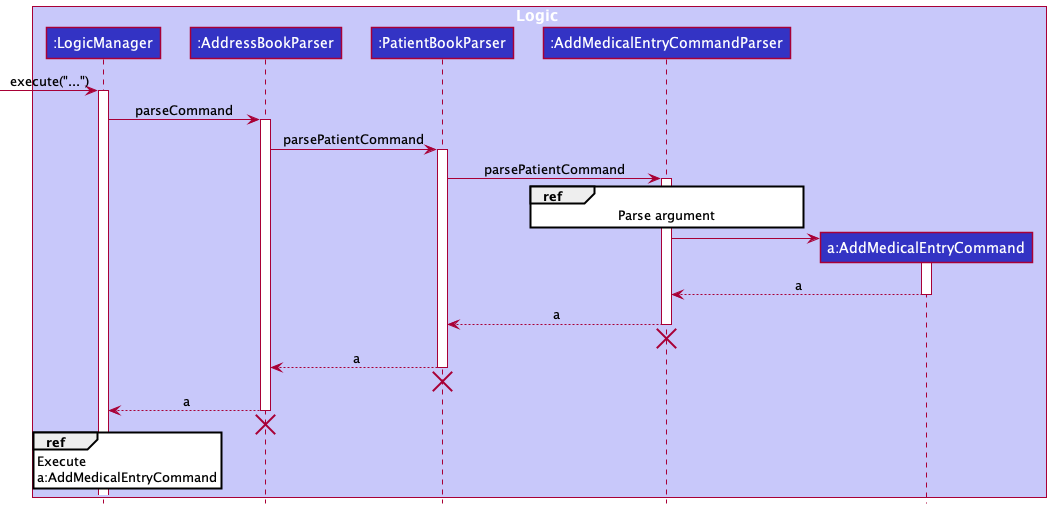
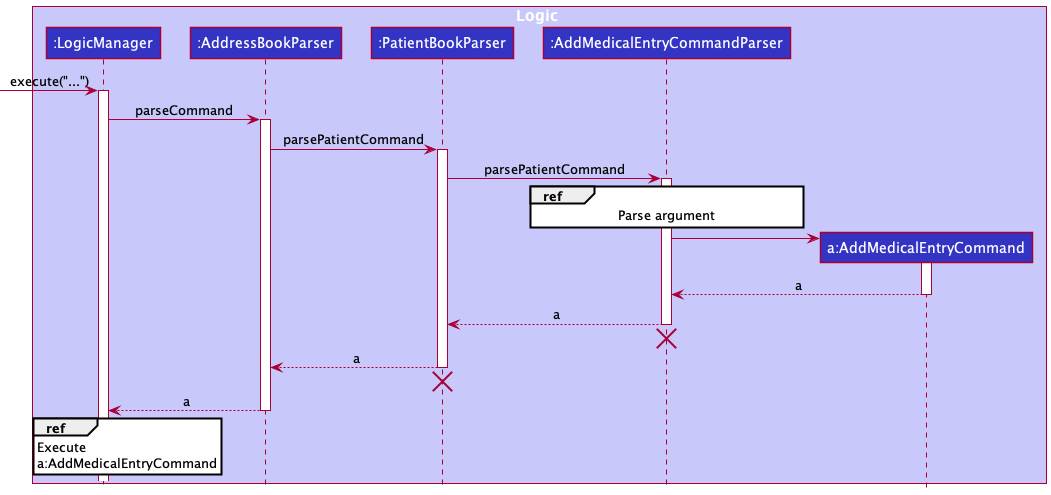
Update sequence diagrams due to errors

diff --git a/docs/DeveloperGuide.md b/docs/DeveloperGuide.md
@@ -170,12 +170,13 @@ The Sequence Diagram below illustrates the interactions within the `Logic` compo
 
 ![Interactions Inside the Logic Component for the `pt delete 1` Command](diagrams/DeletePatientFeatureSequenceDiagram1.png)
 
+<div markdown="span" class="alert alert-info">:information_source: **Note:** The lifeline for `PatientBookParser` and `DeletePatientCommandParser` should end at the destroy marker (X) but due to a limitation of PlantUML, the lifeline reaches the end of diagram.
+</div>
+
 **Execute command**
 
 ![Interactions Inside the Logic Component for the `pt delete 1` Command](diagrams/DeletePatientFeatureSequenceDiagram.png)
 
-<div markdown="span" class="alert alert-info">:information_source: **Note:** The lifeline for `DeletePatientCommandParser` should end at the destroy marker (X) but due to a limitation of PlantUML, the lifeline reaches the end of diagram.
-</div>
 
 Here are the other classes in `Logic` (omitted from the class diagram above) that are used for parsing a user command:
 
@@ -335,6 +336,9 @@ Below is a sequence diagram illustrating the interactions between the `Logic` an
 
 ![Sequence diagram of Add Medical Entry Feature](diagrams/AddMedicalEntrySequenceFeatureDiagram1.png)
 
+<div markdown="span" class="alert alert-info">:information_source: **Note:** The lifeline for `PatientBookParser` and `AddMedicalEntryCommandParser` should end at the destroy marker (X) but due to a limitation of PlantUML, the lifeline reaches the end of diagram.
+</div>
+
 **Execute a:AddMedicalEntryCommand**
 
 ![Sequence diagram of Add Medical Entry Feature](diagrams/AddMedicalEntryFeatureSequenceDiagram.png)
@@ -378,7 +382,10 @@ Below is a sequence diagram illustrating the interactions between the `Logic` an
 
 ![Sequence diagram of Delete Medical Entry Feature](diagrams/DeleteMedicalEntryFeatureSequenceDiagram1.png)
 
-**Execute command**
+<div markdown="span" class="alert alert-info">:information_source: **Note:** The lifeline for `PatientBookParser` and `DeleteMedicalEntryCommandParser` should end at the destroy marker (X) but due to a limitation of PlantUML, the lifeline reaches the end of diagram.
+</div>
+
+**Execute d:DeleteMedicalEntryCommand**
 
 ![Sequence diagram of Delete Medical Entry Feature](diagrams/DeleteMedicalEntryFeatureSequenceDiagram.png)
 
@@ -627,10 +634,13 @@ Once the check has been done, the prescription in question is added/removed and 
 **Target user profile**:
 
 * Authorised staff from small family clinics (both receptionist and doctors)
-* Clinics lacking access to the cloud and are undeveloped compared to hospitals
-* Young clinics that do not have technological capabilities
+* Clinic staff from clinics that lack access to cloud and are undeveloped compared to hospitals
+* Clinic staff from young clinics that do not have technological capabilities
+* Prefer a type-first experience, and can type fast
 
 **Value proposition**:
+* Provide a centralised platform for clinic staff to manage patient records, reducing man hours from managing paper documents
+
 Today, small family clinics often record patient information using paper application forms.
 Such recording of patient information results in the clinic having a messy and inefficient patient record information;
 the family clinic will have to flip through files and documents in order to find the patient. Doc’it aims to provide a
@@ -741,7 +751,7 @@ Priorities: High (must have) - `* * *`, Medium (nice to have) - `* *`, Low (unli
 
       Use case resumes at step 2.
 
-**Use case: UC04 - View the records of a patient**
+**Use case: UC04 - Find a patient**
 
 **MSS**
 
